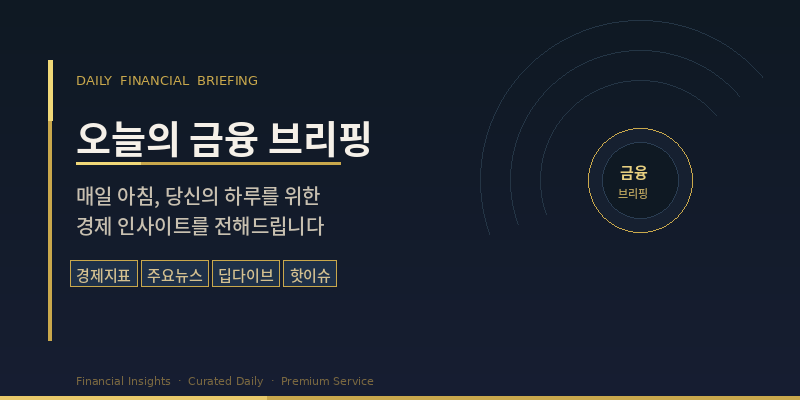
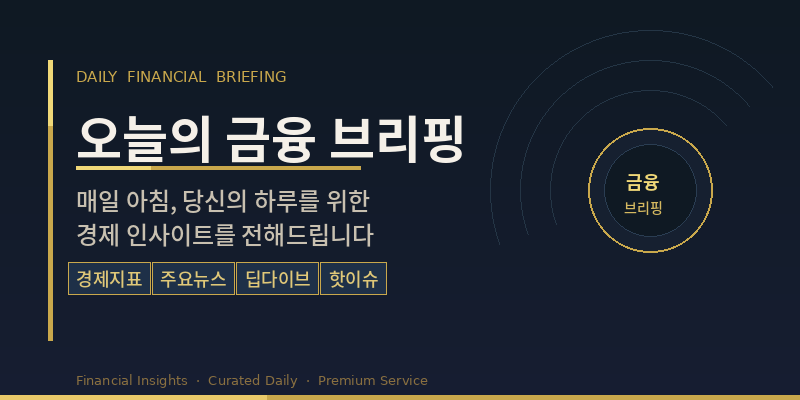
Add files via upload

diff --git a/client-daily.html b/client-daily.html
@@ -800,7 +800,7 @@ audioEl.addEventListener('loadedmetadata',()=>{
 
 // ═══ Share ═══
 window.shareKakao=function(){
-  const url=`${location.origin}/client-daily.html?fc=${fcId}`;
+  const url=`https://jarvia.co.kr/client-daily.html?fc=${fcId}`;
   const fc=fcData||{};
   const rd=reportData||{};
   const title=`${fc.company||''} ${fc.name||''} ${fc.title||''}의 금융 브리핑`;
